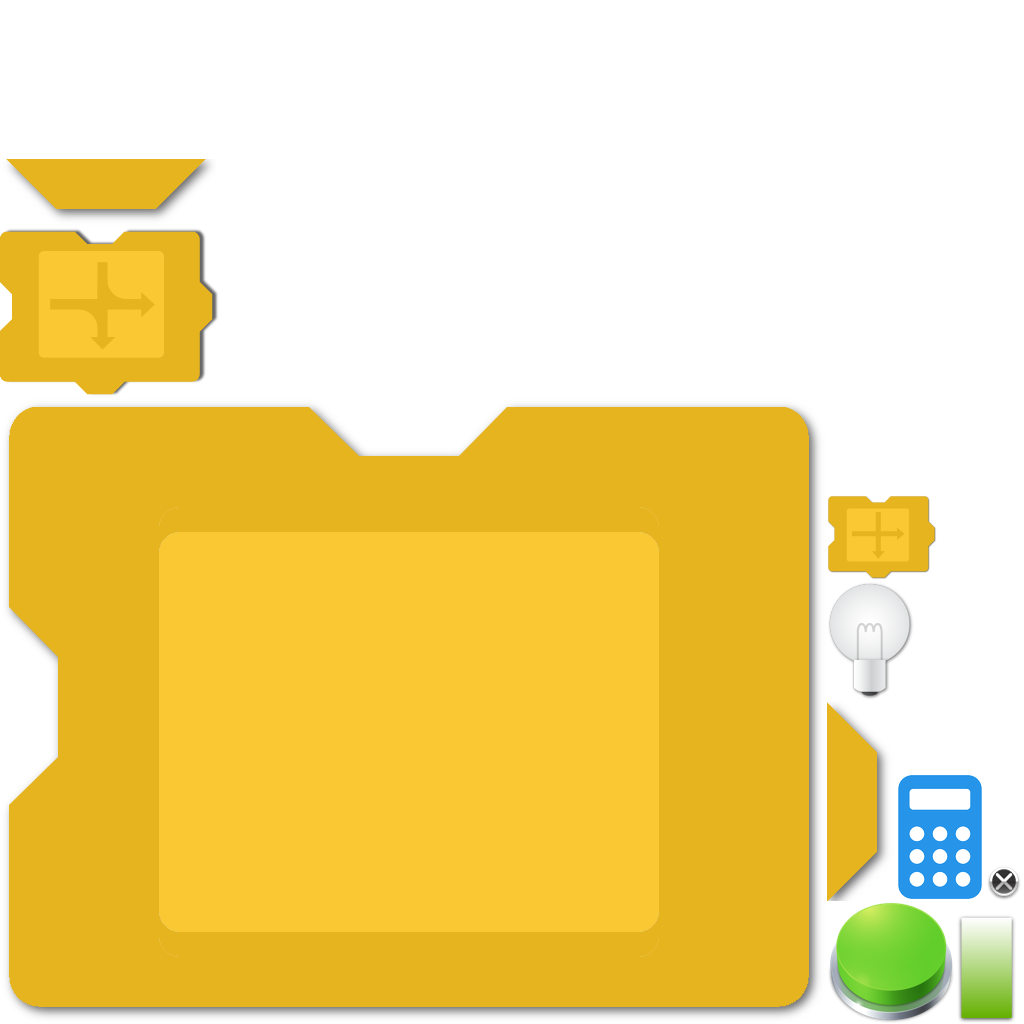
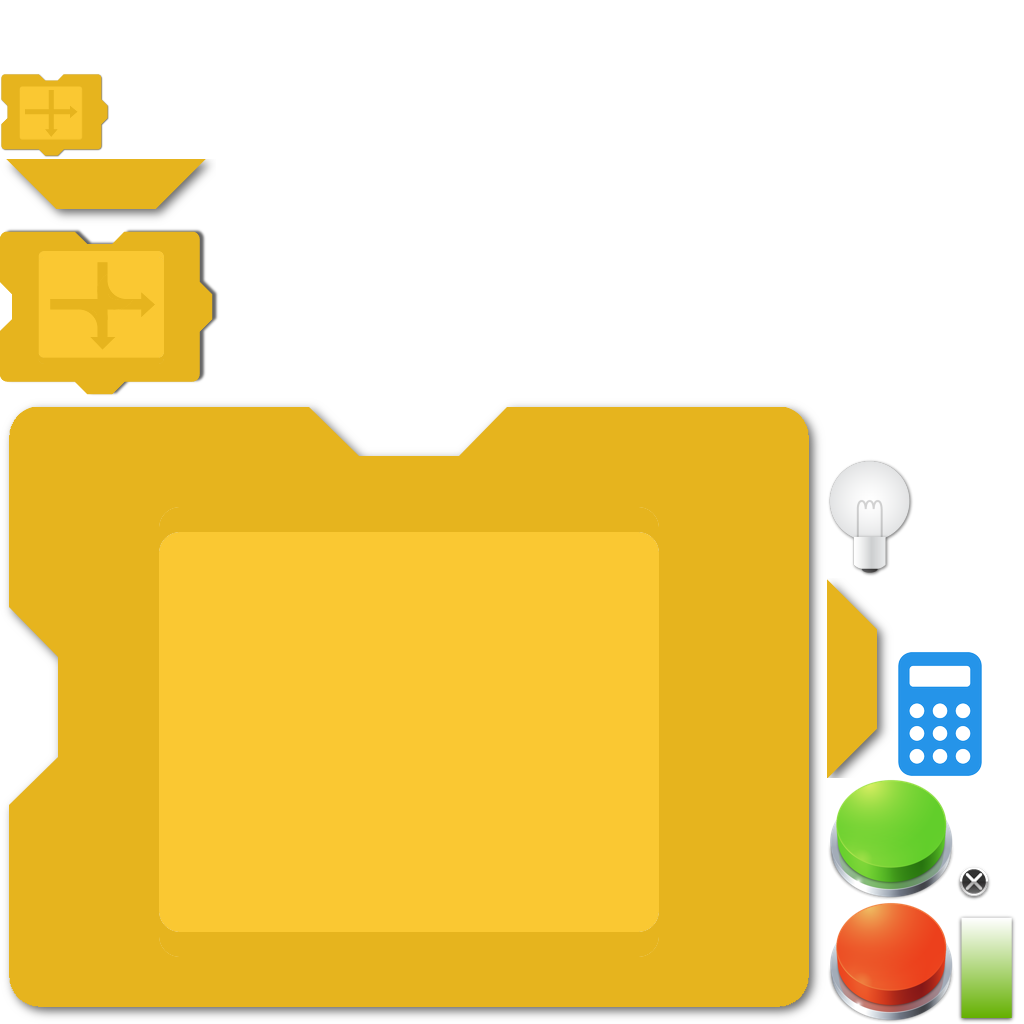
Connect arduino HW

Changed region(s): [[0.7812, 0.4375, 1.0, 1.0], [0.0, 0.0625, 0.125, 0.1562]]

diff --git a/Assets/Scripts/Butty.cs b/Assets/Scripts/Butty.cs
@@ -10,6 +10,9 @@ using Uniduino;
 
 public class Butty : Actor {
 
+	Arduino arduino;
+	private bool _configured = false;
+
 	public enum STATE 
 	{
 		NONE,
@@ -39,19 +42,30 @@ public class Butty : Actor {
 		}
 	}
 
-	public int pin = -1;
-	private bool swButtonPressed = false;
+	int pin = -1;
+	bool swButtonPressed = false;
 
 	public void AttachPin(int p)
 	{
 		pin = p;
 		if (pin >= 0)
 		{
-			Arduino.global.pinMode(pin, PinMode.INPUT);
-			Arduino.global.digitalWrite(pin, Arduino.HIGH);
-			UILabel uiLabel = this.GetComponentInChildren<UILabel>() as UILabel;
-			uiLabel.text = "D" + pin.ToString();
+			_configured = false;
+			arduino.Setup(ConfigurePin);
 		}
+	}
+
+	void ConfigurePin ()
+	{
+		arduino.pinMode(pin, PinMode.INPUT);
+		arduino.digitalWrite(pin, Arduino.HIGH);
+		UILabel uiLabel = this.GetComponentInChildren<UILabel>() as UILabel;
+		uiLabel.text = "D" + pin.ToString();
+		_configured = true;
+	}
+
+	void Start () {
+		arduino = Arduino.global;
 	}
 
 	// Update is called once per frame
@@ -60,11 +74,11 @@ public class Butty : Actor {
 		{
 			if (!swButtonPressed)
 			{
-				if (Arduino.global.Connected)
+				if (_configured)
 				{
-					int value = Arduino.global.digitalRead (pin);
-					Debug.Log (value.ToString());
+					int value = arduino.digitalRead (pin);
 					ChangeState ((value == Arduino.LOW) ? true : false);	// pressing button is LOW
+					Debug.Log (value.ToString());
 				}
 			}
 		}
@@ -76,6 +90,27 @@ public class Butty : Actor {
 		ChangeState (swButtonPressed);
 		Debug.Log ("Butty OnPress");
 		PropertyManager.Instance.ShowButtyProperty (Guid);
+	}
+
+	private void ChangeSplite()
+	{
+		switch(_state)
+		{
+			case STATE.TOUCHDOWN:
+			case STATE.TOUCHDOWN_CHECKED:
+			case STATE.TOUCHING:
+			{
+				UISprite sprite = GetComponentInChildren<UISprite> () as UISprite;
+				sprite.spriteName = "Button_Red";
+				break;
+			}
+			default:
+			{
+				UISprite sprite = GetComponentInChildren<UISprite> () as UISprite;
+				sprite.spriteName = "Button";
+				break;
+			}
+		}
 	}
 
 	private void ChangeState(bool pushed)
